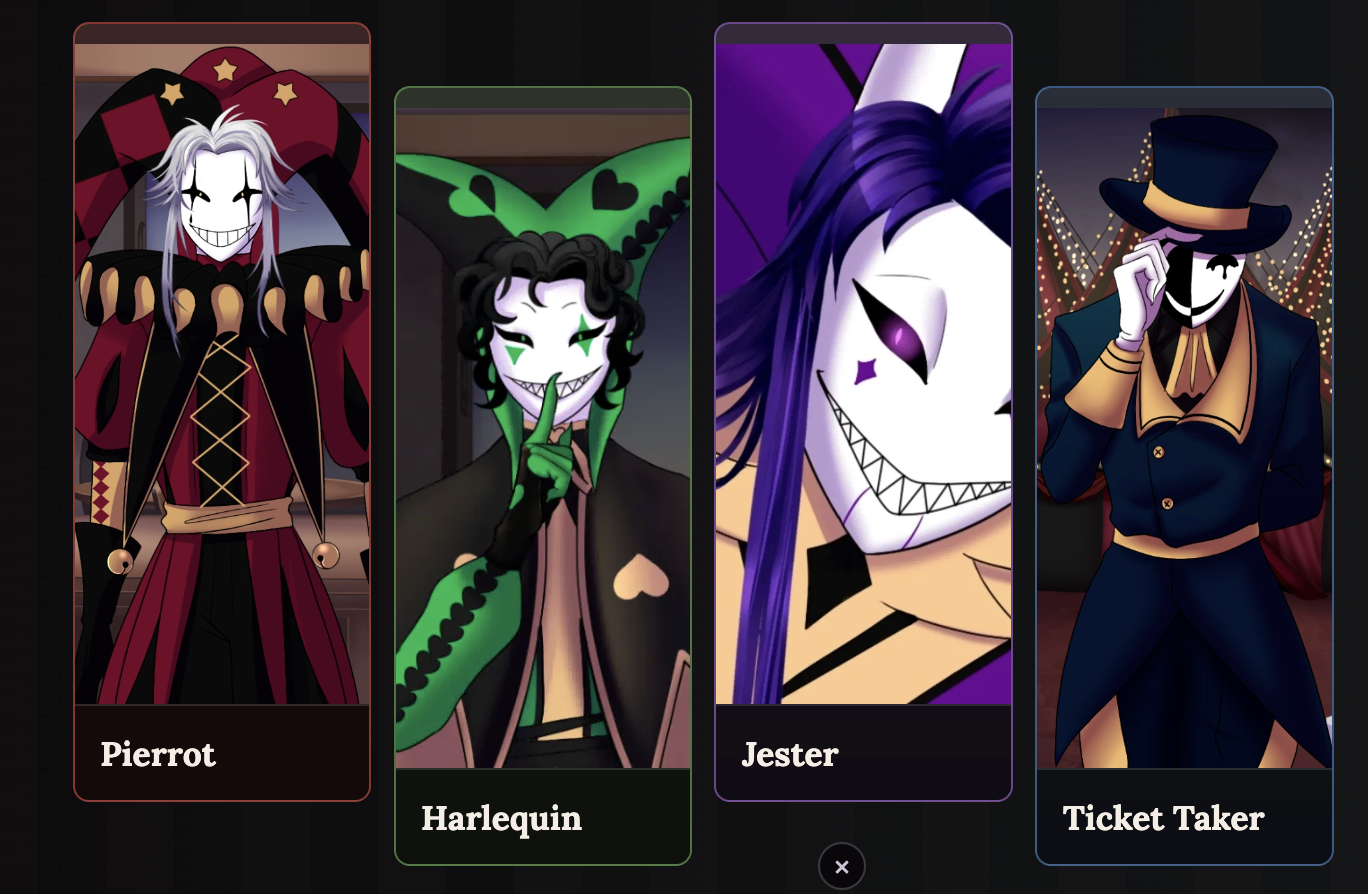
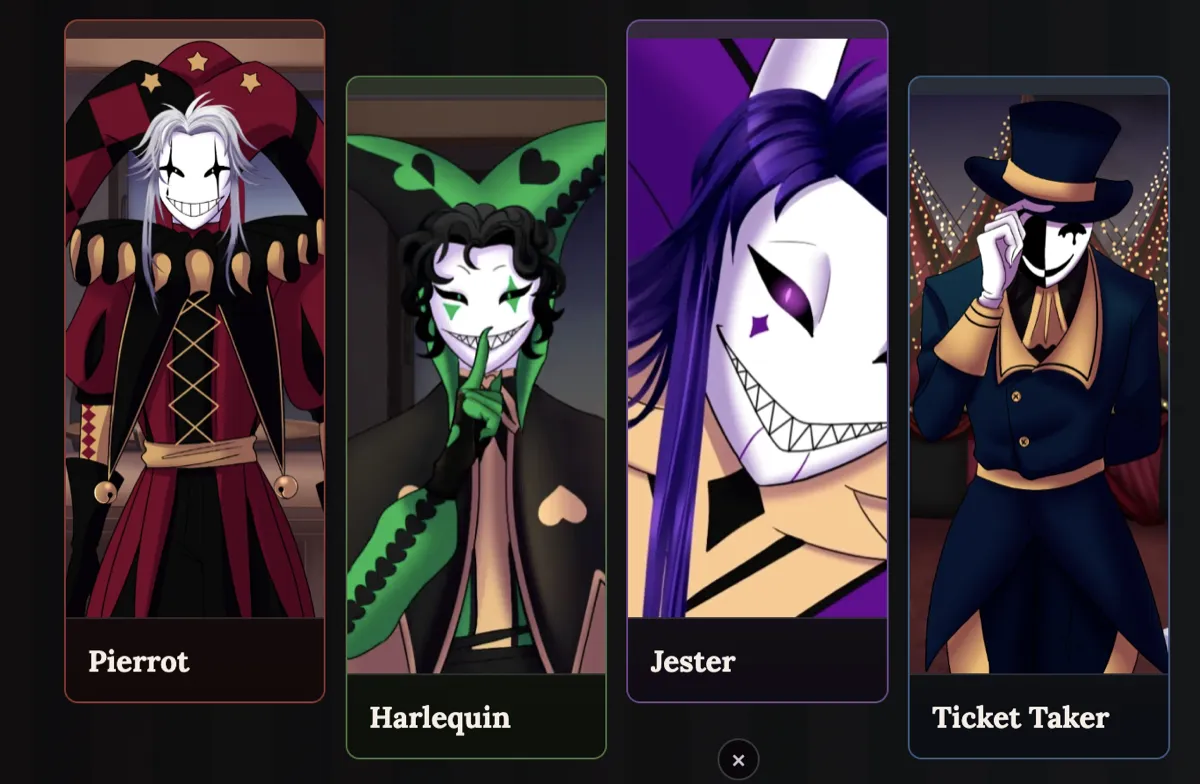
fix: 修复 Vercel 图片优化额度耗尽导致的图片挂掉
线上 /_next/image 返回 402 Payment Required（OPTIMIZED_IMAGE_REQUEST_PAYMENT_REQUIRED），
命中缓存的图还能显示、未缓存的全部挂掉。

- next.config.js 启用 images.unoptimized：图片按源文件直接提供，
  不再依赖 Vercel 按请求计费的优化服务（public/ 下的图本来就是为 web 准备的）
- 压缩过大的源图：home/gameplay 1777→55KB、home/characters 1340→62KB、
  home/faq 838→31KB，fanart 四张合计压缩约 60%；图片目录 9MB→3.2MB
- 社区页三张 500KB 截图 PNG 转 JPEG（504→118KB 等），更新引用并删除旧文件

diff --git a/data/community-posts.ts b/data/community-posts.ts
@@ -324,7 +324,7 @@ export const COMMUNITY_POSTS: readonly CommunityPost[] = [
   publishedAt: '2026-09-18',
   sourceUrl: 'https://freakcircusofhorrors.tumblr.com/post/828134682948517888/ama-2-answers-part-26',
   // Original post image: https://64.media.tumblr.com/ed933d7b74be3075c372df66e9ee1c44/5bd37be02ab5feec-0a/s1280x1920/a6323b23af2921a6bd254df7c8dc5c49dbc9780f.png
-  image: '/images/community/ama2-part26-20260918.png',
+  image: '/images/community/ama2-part26-20260918.jpg',
   imageAlt: {
     en: 'AMA 2 Part 26: Pierrot talks about admiring Jester’s adaptability and Doctor’s knowledge.',
     zh: 'AMA 2 第 26 部分：Pierrot 谈到自己欣赏 Jester 的应变能力与 Doctor 的知识。',
@@ -343,7 +343,7 @@ export const COMMUNITY_POSTS: readonly CommunityPost[] = [
   publishedAt: '2026-09-11',
   sourceUrl: 'https://freakcircusofhorrors.tumblr.com/post/827513414487343104/ama-2-answers-part-25-12',
   // Original post image: https://64.media.tumblr.com/859fd79c646c589e340d2886ea280d35/2b38b8683faea987-c4/s1280x1920/35a8b13fd89a712f3e0bfc01a754f1f4ded06239.png
-  image: '/images/community/ama2-part25-2-20260911.png',
+  image: '/images/community/ama2-part25-2-20260911.jpg',
   imageAlt: {
     en: 'AMA 2 Part 25, second half: Pierrot answers a question in front of the illuminated circus tents.',
     zh: 'AMA 2 第 25 部分下篇：Pierrot 在灯光明亮的马戏帐篷前回答问题。',
@@ -362,7 +362,7 @@ export const COMMUNITY_POSTS: readonly CommunityPost[] = [
   publishedAt: '2026-09-11',
   sourceUrl: 'https://freakcircusofhorrors.tumblr.com/post/827513385132441600/ama-2-answers-part-24-%C2%BD',
   // Original post image: https://64.media.tumblr.com/aed005b1cd8de3cb2e218728382854b9/378dac40524d8d9d-86/s1280x1920/51f3294473eee9f007926da320ea4a938afd10d0.png
-  image: '/images/community/ama2-part25-1-20260911.png',
+  image: '/images/community/ama2-part25-1-20260911.jpg',
   imageAlt: {
     en: 'AMA 2 Part 25, first half: Pierrot explains that he turns to Jester for guidance.',
     zh: 'AMA 2 第 25 部分上篇：Pierrot 表示自己会向 Jester 寻求指引。',

diff --git a/next.config.js b/next.config.js
@@ -2,6 +2,12 @@
 const nextConfig = {
   images: {
     remotePatterns: [{ protocol: 'https', hostname: 'cdn.the-freakcircus.com' }],
+    // Serve images as-is instead of through the /_next/image optimizer.
+    // Vercel's optimization quota is metered, and when it runs out every
+    // image on the site returns 402 Payment Required. The sources under
+    // public/ are already sized and compressed for the web, so the
+    // optimizer bought little and cost reliability.
+    unoptimized: true,
   },
   async redirects() {
     const locales = ['pt', 'fil', 'vi', 'es', 'id', 'zh'];
